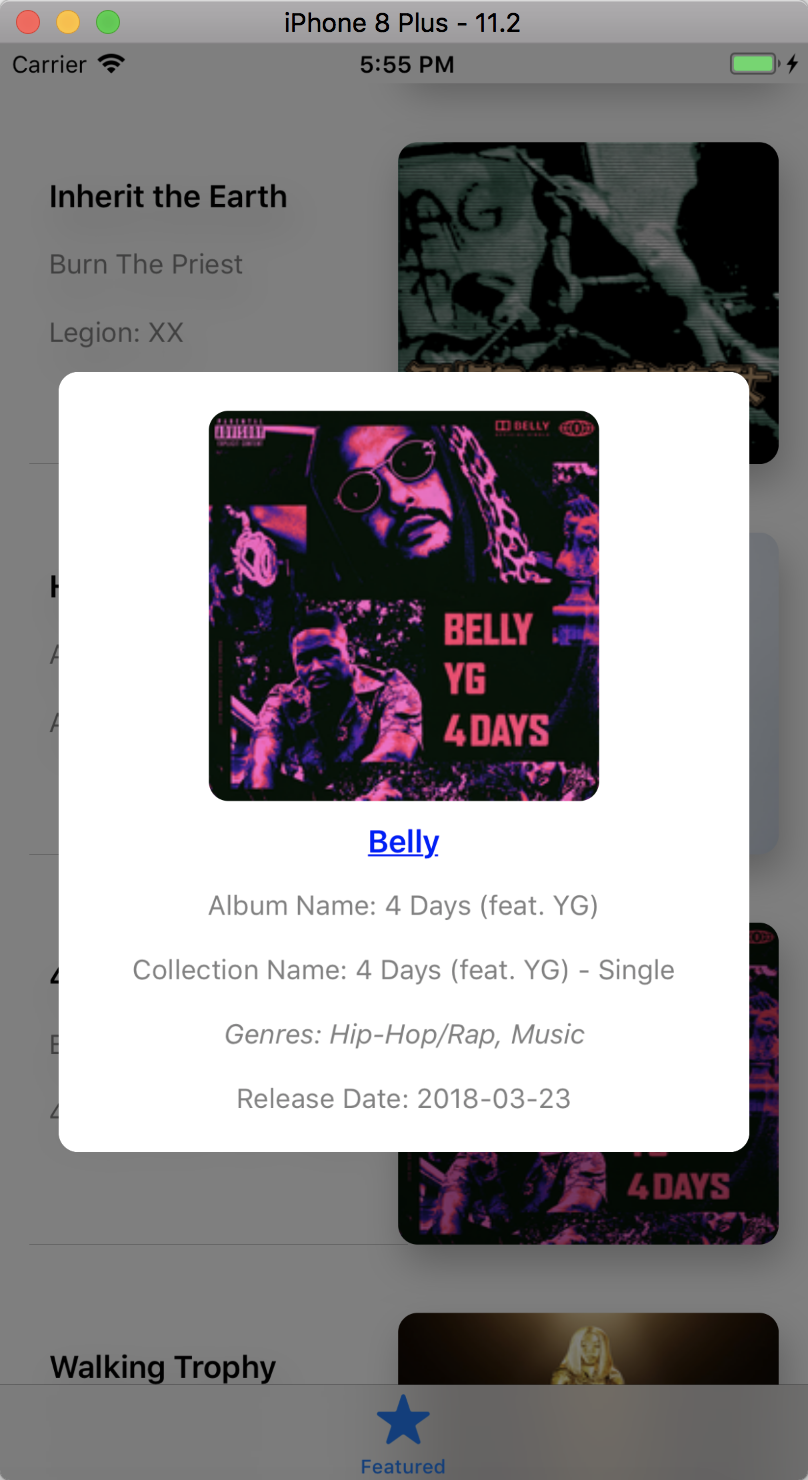
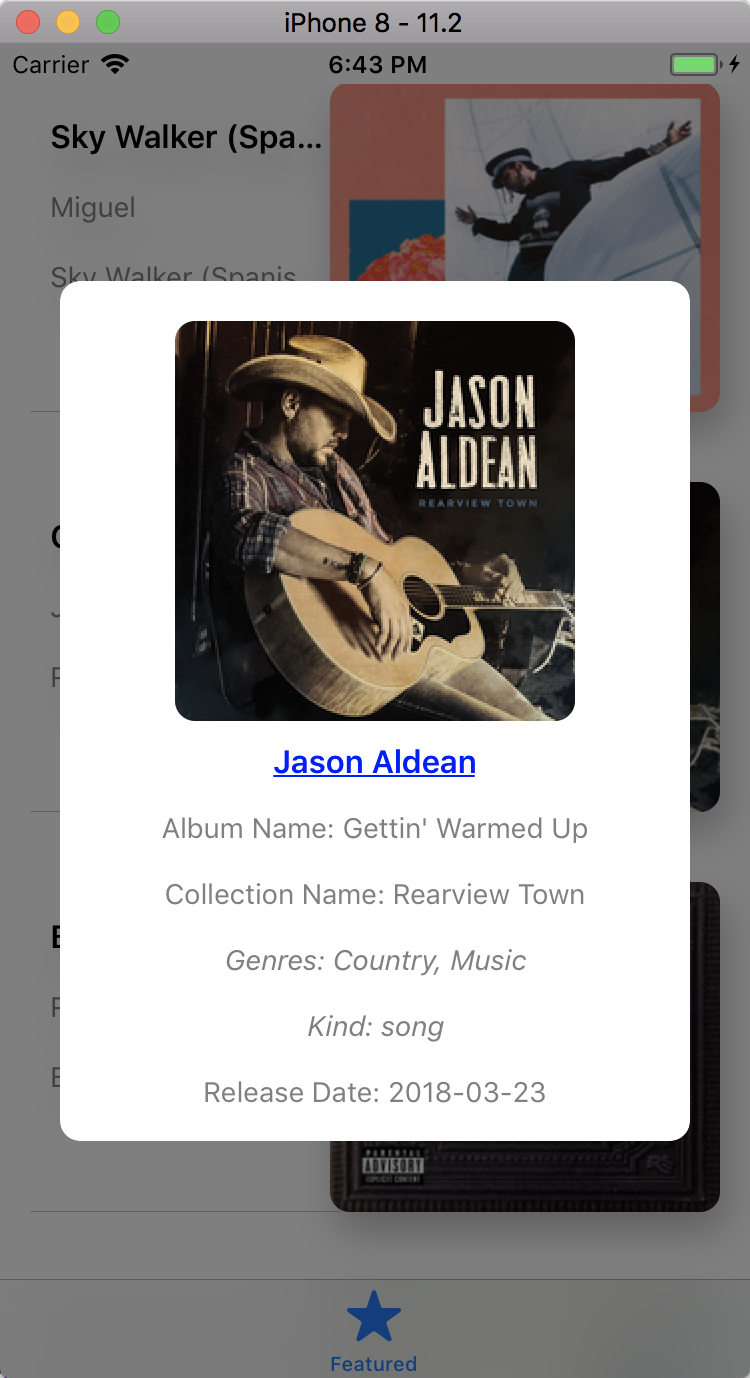
update

diff --git a/README.md b/README.md
@@ -1,5 +1,5 @@
 # RSSFeed
 
-<img src="https://github.com/VictorZhang2014/RSSFeed/blob/master/images/effect1.png" width="300" height="600" alt="" /><img src="https://github.com/VictorZhang2014/RSSFeed/blob/master/images/effect2.png" width="300" height="600" alt="" /><img src="https://github.com/VictorZhang2014/RSSFeed/blob/master/images/effect3.png" width="300" height="600" alt="" />
+<img src="https://github.com/VictorZhang2014/RSSFeed/blob/master/images/effect1.png" width="300" height="600" alt="" /><img src="https://github.com/VictorZhang2014/RSSFeed/blob/master/images/effect2.png" width="300" height="600" alt="" /><img src="https://github.com/VictorZhang2014/RSSFeed/blob/master/images/effect3.png" width="300" height="600" alt="" /><img src="https://github.com/VictorZhang2014/RSSFeed/blob/master/images/effect4.png" width="300" height="600" alt="" />
 
 
